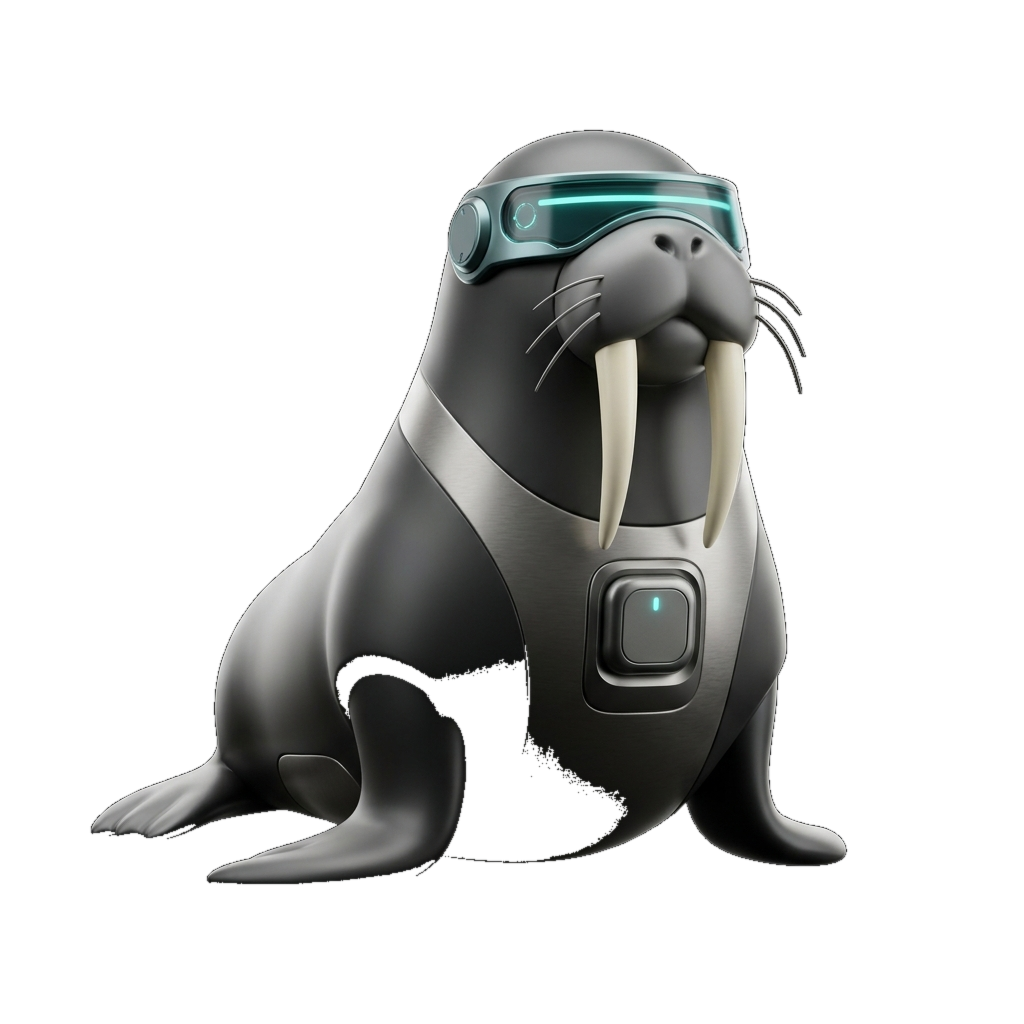
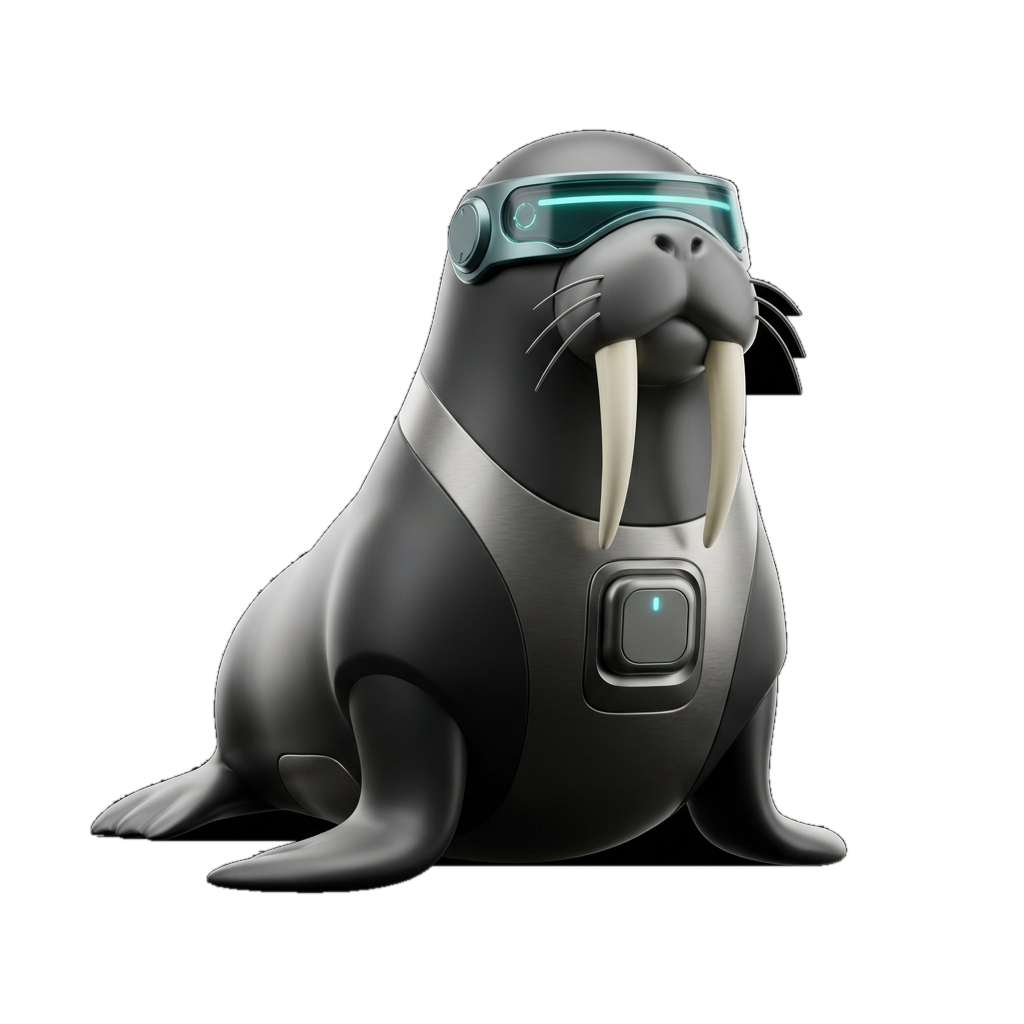
fix(mascot): restore full solid torso geometry (zero-leak envelope) and make leader lines responsive

Changed region(s): [[0.0938, 0.625, 0.75, 0.875], [0.7188, 0.2812, 0.7812, 0.4062]]

diff --git a/src/components/LivingGlyphMascot.tsx b/src/components/LivingGlyphMascot.tsx
@@ -52,13 +52,13 @@ export const LivingGlyphMascot: React.FC<LivingGlyphMascotProps> = ({
   return (
     <div className="relative mx-auto flex w-full max-w-[420px] flex-col items-center justify-center select-none pt-2 sm:pt-4">
       {/* 
-        NO Bounding Box or Picture Frame:
-        Wally sits directly on the page background with physical contact ground shadows.
+        NO Bounding Box: Wally sits directly on the page background
+        with full solid geometry (0 leaks) and physical contact ground shadows.
       */}
       <div className="relative flex w-full items-center justify-center">
         {/* Soft Ambient Ground Plane Contact Shadow */}
         <div
-          className="pointer-events-none absolute bottom-4 sm:bottom-6 h-8 w-48 sm:w-64 rounded-full bg-black/15 blur-xl dark:bg-black/70 transition-all duration-300"
+          className="pointer-events-none absolute bottom-4 sm:bottom-6 h-8 w-44 sm:w-64 rounded-full bg-black/15 blur-xl dark:bg-black/70 transition-all duration-300"
           aria-hidden="true"
         />
 
@@ -72,19 +72,25 @@ export const LivingGlyphMascot: React.FC<LivingGlyphMascotProps> = ({
           aria-hidden="true"
         />
 
-        {/* The Transparent Cutout 3D Mascot with Light-Mode Tone Calibration */}
-        <div className="relative z-10 w-full max-w-[320px] sm:max-w-[350px]">
+        {/* The Transparent Cutout 3D Mascot */}
+        <div className="relative z-10 w-full max-w-[280px] sm:max-w-[340px]">
           <img
             key={currentSentinel.id}
             src={currentSentinel.src}
             alt={currentSentinel.alt}
-            className="h-auto w-full object-contain drop-shadow-[0_18px_24px_rgba(0,0,0,0.12)] dark:drop-shadow-[0_25px_35px_rgba(0,0,0,0.55)] contrast-[1.04] brightness-[0.97] dark:contrast-100 dark:brightness-100 transition-all duration-300"
+            className="h-auto w-full object-contain drop-shadow-[0_18px_24px_rgba(0,0,0,0.12)] dark:drop-shadow-[0_25px_35px_rgba(0,0,0,0.55)] transition-all duration-300"
             loading="eager"
           />
         </div>
 
-        {/* Pinned 1px Hairline Leader-Line 1 (Top Left): Visor -> Tatum Checkpoint */}
-        <div className="pointer-events-none absolute top-[16%] left-0 sm:-left-4 z-20 flex items-center gap-1.5">
+        {/* 
+          Pinned 1px Hairline Leader-Lines:
+          Displayed on screens >= 640px (tablets & desktops) where there is generous horizontal clearance.
+          Hidden on narrow mobile screens (< 640px) to prevent floating dots and edge clipping.
+        */}
+
+        {/* Leader-Line 1 (Top Left): Visor -> Tatum Checkpoint */}
+        <div className="pointer-events-none absolute top-[16%] -left-2 sm:-left-6 z-20 hidden sm:flex items-center gap-1.5">
           <div className="flex flex-col items-end">
             <span className="keycap text-[10px] sm:text-xs">
               <span>ckpt</span> {ckpt}
@@ -96,8 +102,8 @@ export const LivingGlyphMascot: React.FC<LivingGlyphMascotProps> = ({
           </div>
         </div>
 
-        {/* Pinned 1px Hairline Leader-Line 2 (Bottom Left): Recall Core -> Walrus Recall Latency */}
-        <div className="pointer-events-none absolute bottom-[26%] left-0 sm:-left-3 z-20 flex items-center gap-1.5">
+        {/* Leader-Line 2 (Bottom Left): Recall Core -> Walrus Recall Latency */}
+        <div className="pointer-events-none absolute bottom-[26%] -left-2 sm:-left-4 z-20 hidden sm:flex items-center gap-1.5">
           <div className="flex flex-col items-end">
             <span className="keycap text-[10px] sm:text-xs">
               <span>recall</span> &lt;1s
@@ -109,8 +115,8 @@ export const LivingGlyphMascot: React.FC<LivingGlyphMascotProps> = ({
           </div>
         </div>
 
-        {/* Pinned 1px Hairline Leader-Line 3 (Top Right): Visor / Tusk -> Memory Blob Hash */}
-        <div className="pointer-events-none absolute top-[18%] right-0 sm:-right-4 z-20 flex items-center gap-1.5">
+        {/* Leader-Line 3 (Top Right): Visor / Tusk -> Memory Blob Hash */}
+        <div className="pointer-events-none absolute top-[18%] -right-2 sm:-right-6 z-20 hidden sm:flex items-center gap-1.5">
           <div className="relative h-[1px] w-5 sm:w-8 bg-line-2">
             <div className="absolute left-0 top-[-2px] size-1.5 rounded-full bg-fg" />
           </div>
@@ -122,8 +128,8 @@ export const LivingGlyphMascot: React.FC<LivingGlyphMascotProps> = ({
           </div>
         </div>
 
-        {/* Pinned 1px Hairline Leader-Line 4 (Bottom Right): Base / Core -> Brier Calibration Delta */}
-        <div className="pointer-events-none absolute bottom-[24%] right-0 sm:-right-3 z-20 flex items-center gap-1.5">
+        {/* Leader-Line 4 (Bottom Right): Base / Core -> Brier Calibration Delta */}
+        <div className="pointer-events-none absolute bottom-[24%] -right-2 sm:-right-4 z-20 hidden sm:flex items-center gap-1.5">
           <div className="relative h-[1px] w-5 sm:w-8 bg-line-2">
             <div className="absolute left-0 top-[-2px] size-1.5 rounded-full bg-fg" />
           </div>
@@ -137,7 +143,7 @@ export const LivingGlyphMascot: React.FC<LivingGlyphMascotProps> = ({
       </div>
 
       {/* Active Sentinel State & Identity Caption */}
-      <div className="mt-4 flex flex-col items-center gap-2">
+      <div className="mt-3 flex flex-col items-center gap-2">
         <div className="inline-flex items-center gap-2 rounded-full border border-line bg-raised/80 px-3 py-1 text-xs font-mono backdrop-blur-sm">
           <span
             className={`size-2 rounded-full transition-colors ${
